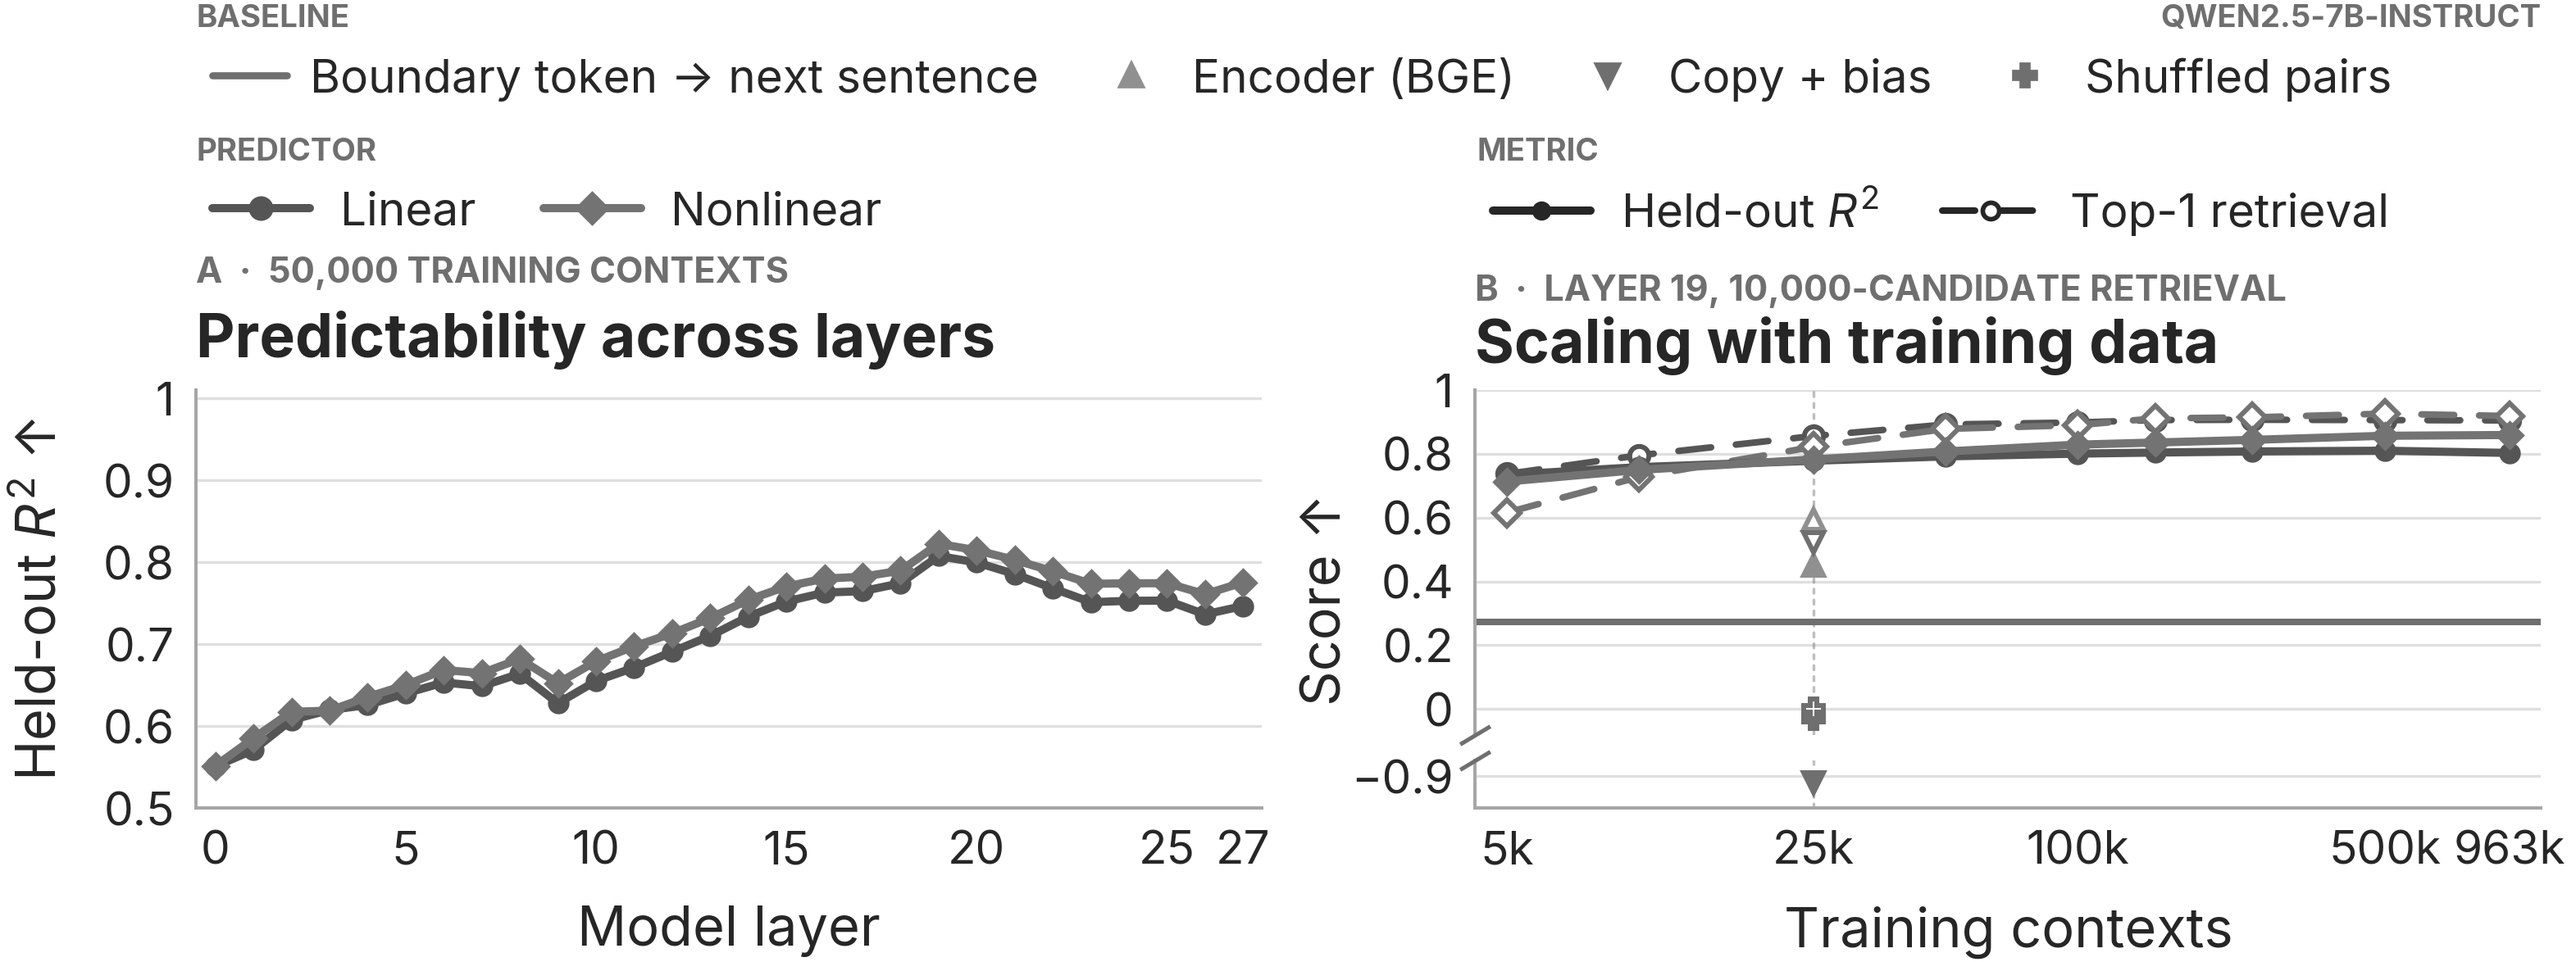
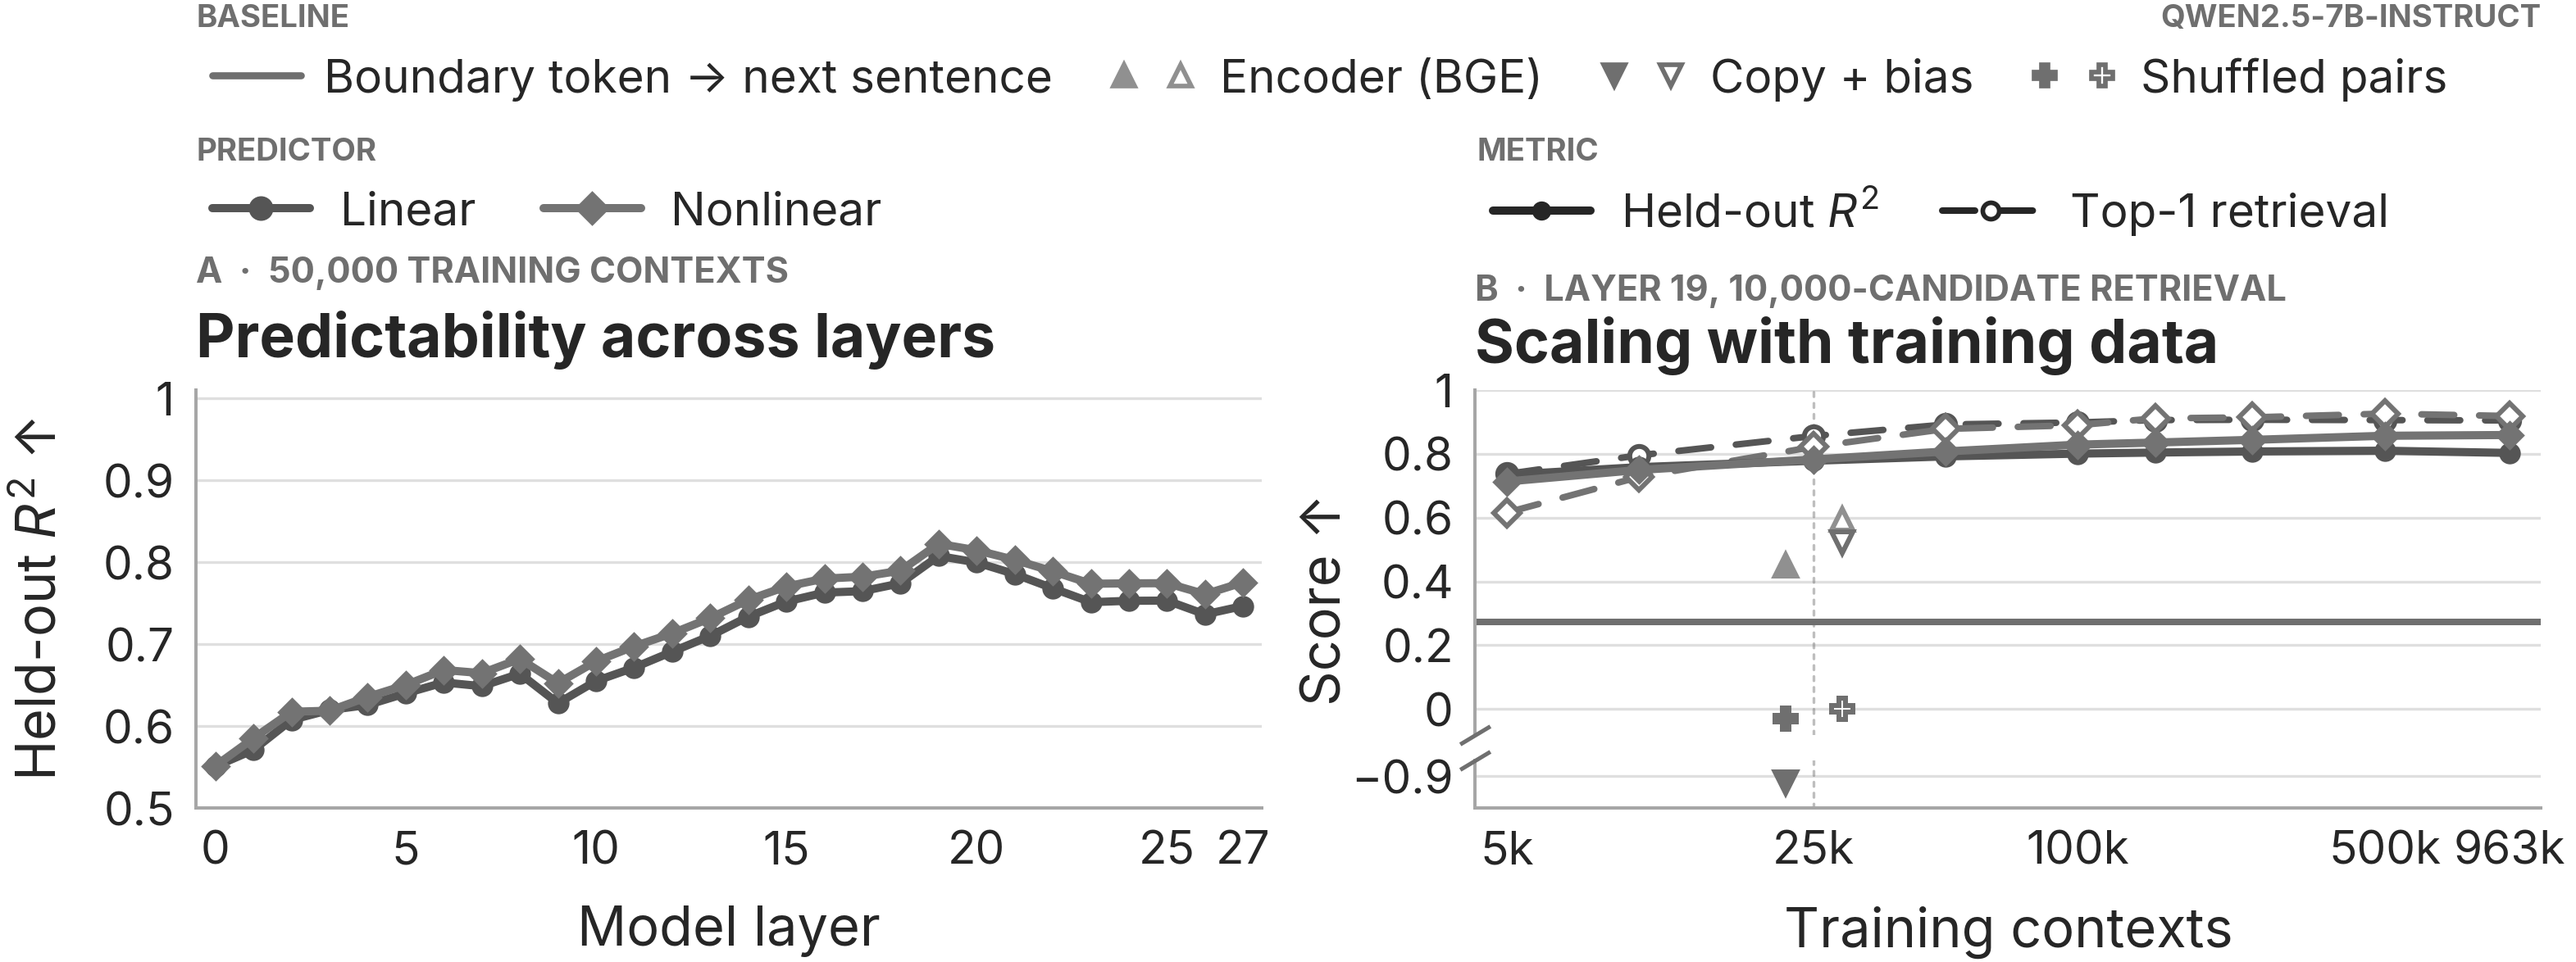
figure 2: dodge the baseline metrics either side of the rung guide
Fill alone (filled = R^2, open = top-1) was too subtle to read on isolated
markers at print size: with three arms stacked in one column at x = 25,000 a
reader could not tell which dot was which metric. Reported from the rendered
figure, not hypothesised.

Two changes:

  - The metrics are dodged multiplicatively either side of the guide line
    (BASELINE_METRIC_DODGE, log axis): R^2 always left at x = 21,552, top-1
    always right at x = 29,000. The guide line still marks the true 25,000.
    This also separates the shuffled null's two values, which are both within
    0.03 of zero and previously drew on top of each other.
  - Each baseline's legend swatch now shows BOTH markers, filled then open,
    in the same left-to-right order the panel uses, via HandlerTuple. The
    swatch therefore says which side of the rung is which metric instead of
    leaving it to the separate metric legend.

Marker size 7.0 -> 8.0 for the same legibility reason.

The dodge is a legibility device on a shared x, like dodged bars. Both values
are at n = 25,000; the sidecar records each marker's drawn x under
overlay.drawn[].x alongside its true rung, and the manuscript caption states
the offset.

diff --git a/scripts/make_paper_figure2.py b/scripts/make_paper_figure2.py
@@ -38,6 +38,7 @@ load_dotenv()
 
 import matplotlib.pyplot as plt  # noqa: E402
 import numpy as np  # noqa: E402
+from matplotlib.legend_handler import HandlerTuple  # noqa: E402
 from matplotlib.lines import Line2D  # noqa: E402
 from matplotlib.ticker import FixedLocator, FuncFormatter  # noqa: E402
 
@@ -197,6 +198,13 @@ BASELINE_ARMS: dict[str, dict] = {
 # "anchor" is never drawn: it IS panel B's linear curve at this rung (its retrieval
 # is byte-equal and its R^2 agrees to 1e-6).
 BASELINE_POINT_X = 25_000
+# Fill alone (filled = R^2, open = top-1) is too subtle to read on isolated markers
+# at print size, so the two metrics are also dodged left and right of the rung:
+# R^2 always sits left of the guide line, top-1 always right. Multiplicative
+# because panel B's x-axis is logarithmic. This also separates the shuffled null's
+# two values, which are both within 0.03 of zero and would otherwise overlap.
+BASELINE_METRIC_DODGE = 1.16
+BASELINE_METRIC_SIDE = {"r2": 1.0 / BASELINE_METRIC_DODGE, "top1": BASELINE_METRIC_DODGE}
 
 # Panel B's y-axis is cut so the baselines' held-out R^2 fits without crushing the
 # curves. Two segments, ordered low to high; heights are proportional to these
@@ -393,11 +401,13 @@ def _plot_baseline_points(axes: list[plt.Axes], baselines: dict, roster: tuple[s
             if host is None:
                 off_scale.append(record)
                 continue
+            x = BASELINE_POINT_X * BASELINE_METRIC_SIDE[metric]
+            record["x"] = x
             host.plot(
-                [BASELINE_POINT_X],
+                [x],
                 [value],
                 marker=style["marker"],
-                markersize=7.0,
+                markersize=8.0,
                 color=style["color"],
                 # Same fill encoding the predictor curves use: filled = R^2,
                 # open = top-1 retrieval.
@@ -482,17 +492,16 @@ def _plot_controls(ax: plt.Axes, boundary: dict | None, extension: dict | None) 
     # (their R^2 is far below the axis; the text quotes them).
 
 
-def _baseline_legend_handles(boundary: dict | None, overlay: dict | None) -> list[Line2D]:
+def _baseline_legend_handles(boundary: dict | None, overlay: dict | None) -> tuple[list, list[str]]:
     """One legend group for every reference quantity drawn on panel B.
 
-    The boundary-token control and the former panel-C baselines are the same kind
-    of thing to a reader, so they share a group. The metric legend already decodes
-    filled versus open, so each baseline needs one entry, not two -- but the swatch
-    is filled ONLY when that arm's held-out R^2 is actually on the canvas. Copy +
-    bias contributes retrieval alone (its R^2 is off scale), so a filled swatch
-    would promise a marker the reader can never find.
+    Each baseline's swatch shows BOTH of its markers, filled then open, in the
+    same left-to-right order the dodged markers use on the panel, so the swatch
+    itself says which side of the rung is which metric. An arm contributing only
+    one metric shows only that marker.
     """
-    handles: list[Line2D] = []
+    handles: list = []
+    labels: list[str] = []
     if boundary is not None:
         handles.append(
             Line2D(
@@ -500,11 +509,11 @@ def _baseline_legend_handles(boundary: dict | None, overlay: dict | None) -> lis
                 [0],
                 color=BOUNDARY_COLOR,
                 lw=2.6,
-                label="Boundary token \u2192 next sentence",
             )
         )
+        labels.append("Boundary token \u2192 next sentence")
     if overlay is None:
-        return handles
+        return handles, labels
     drawn_metrics: dict[str, set[str]] = {}
     for record in overlay["drawn"]:
         drawn_metrics.setdefault(record["key"], set()).add(record["metric"])
@@ -513,21 +522,24 @@ def _baseline_legend_handles(boundary: dict | None, overlay: dict | None) -> lis
         if not metrics:
             continue
         style = BASELINE_ARMS[key]
-        handles.append(
+        swatch = tuple(
             Line2D(
                 [0],
                 [0],
                 color=style["color"],
                 marker=style["marker"],
                 markersize=8,
-                markerfacecolor=style["color"] if "r2" in metrics else PAPER,
+                markerfacecolor=style["color"] if metric == "r2" else PAPER,
                 markeredgecolor=style["color"],
                 markeredgewidth=1.7,
                 linestyle="none",
-                label=style["label"],
             )
+            for metric in ("r2", "top1")
+            if metric in metrics
         )
-    return handles
+        handles.append(swatch if len(swatch) > 1 else swatch[0])
+        labels.append(style["label"])
+    return handles, labels
 
 
 def _series(rows: list[dict], predictor: str, metric: str) -> tuple[np.ndarray, np.ndarray]:
@@ -741,10 +753,11 @@ def make_figure(
         borderaxespad=0,
     )
     if controls:
-        baseline_handles = _baseline_legend_handles(boundary, baseline_overlay)
+        baseline_handles, baseline_labels = _baseline_legend_handles(boundary, baseline_overlay)
         legend_kicker(fig, 0.075, 0.995, "Baseline")
         fig.legend(
             handles=baseline_handles,
+            labels=baseline_labels,
             loc="upper left",
             bbox_to_anchor=(0.074, 0.973),
             # Past four entries the row runs off the canvas (save_c2a_figure
@@ -752,9 +765,12 @@ def make_figure(
             ncol=min(len(baseline_handles), 4),
             frameon=False,
             columnspacing=1.2,
-            handlelength=1.6,
+            handlelength=1.9,
             handletextpad=0.5,
             borderaxespad=0,
+            # Paired swatches: draw both markers side by side rather than
+            # overlaid, so the swatch mirrors the panel's dodge.
+            handler_map={tuple: HandlerTuple(ndivide=None, pad=0.55)},
         )
     return fig, include_frac, baseline_overlay
 
